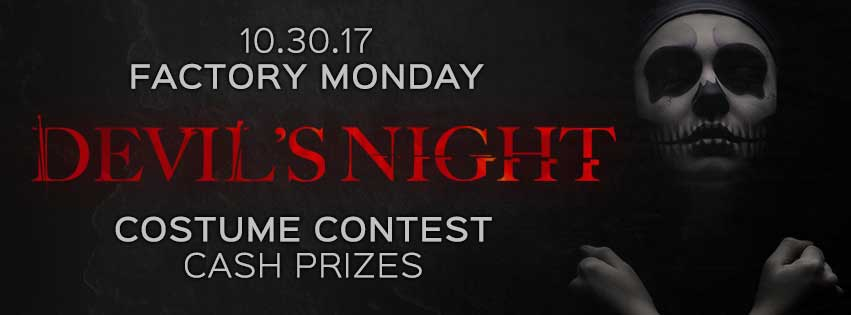
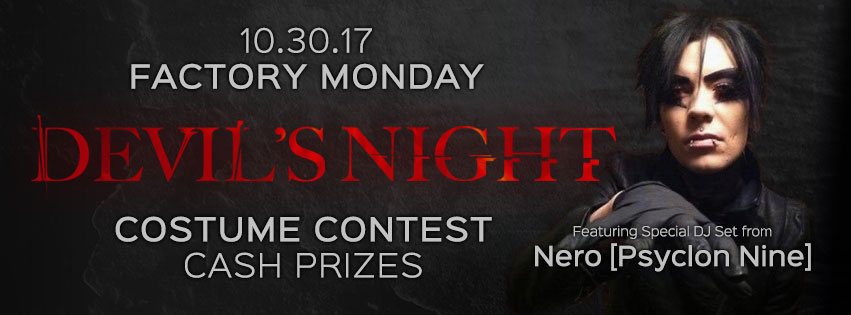
eventupadte

diff --git a/js/events.js b/js/events.js
@@ -108,8 +108,8 @@ var eventsJSON = [
         "eventDate"    : new Date("Oct 30, 2017 21:00:00"),
         "eventName"    : "Factory Halloween 2017: Devil’s Night",
         "eventArtist"  : "Factory Halloween 2017",
-        "eventDesc"    : "OUR holiday is here. And this year, we party on on DEVIL’S NIGHT. Costume contest with cash prizes at midnight. DJ Void6, guest Misanthropia Narcissus, and Remnant on video upstairs, with DJ KnowLedge and guest DJ Selina Style down in the Red Room. Please note: no metal or hard plastic, toys, or faux weapons are permitted.<br><br>Make sure to checkout our other <a href='halloween-events-michigan-2017.html'>Halloween 2017 Events!</a>",
-        "eventDescLong": "OUR holiday is here. And this year, we party on on DEVIL’S NIGHT. Costume contest with cash prizes at midnight. DJ Void6, guest Misanthropia Narcissus, and Remnant on video upstairs, with DJ KnowLedge and guest DJ Selina Style down in the Red Room. Please note: no metal or hard plastic, toys, or faux weapons are permitted.<br><br>Make sure to checkout our other <a href='halloween-events-michigan-2017.html'>Halloween 2017 Events!</a>",
+        "eventDesc"    : "JUST ADDED: Nero from Psyclon Nine will be performing a special DJ set!<br><br>OUR holiday is here. And this year, we party on on DEVIL’S NIGHT. Costume contest with cash prizes at midnight. DJ Void6, guest Misanthropia Narcissus, and Remnant on video upstairs, with DJ KnowLedge and guest DJ Selina Style down in the Red Room. Please note: no metal or hard plastic, toys, or faux weapons are permitted.<br><br>Make sure to checkout our other <a href='halloween-events-michigan-2017.html'>Halloween 2017 Events!</a>",
+        "eventDescLong": "JUST ADDED: Nero from Psyclon Nine will be performing a special DJ set!<br><br>OUR holiday is here. And this year, we party on on DEVIL’S NIGHT. Costume contest with cash prizes at midnight. DJ Void6, guest Misanthropia Narcissus, and Remnant on video upstairs, with DJ KnowLedge and guest DJ Selina Style down in the Red Room. Please note: no metal or hard plastic, toys, or faux weapons are permitted.<br><br>Make sure to checkout our other <a href='halloween-events-michigan-2017.html'>Halloween 2017 Events!</a>",
         "eventCover"   : "$5",
         "eventLink"    : "special-events/" + "factory-halloween-2017-at-necto-nightclub-ann-arbor-michigan-oct-30-2017.html",
         "eventSocial"  : "https://facebook.com/events/1493420970749249/",

diff --git a/js/events-min.js b/js/events-min.js
@@ -108,8 +108,8 @@ var eventsJSON = [
  "eventDate" : new Date("Oct 30, 2017 21:00:00"),
  "eventName" : "Factory Halloween 2017: Devil’s Night",
  "eventArtist" : "Factory Halloween 2017",
- "eventDesc" : "OUR holiday is here. And this year, we party on on DEVIL’S NIGHT. Costume contest with cash prizes at midnight. DJ Void6, guest Misanthropia Narcissus, and Remnant on video upstairs, with DJ KnowLedge and guest DJ Selina Style down in the Red Room. Please note: no metal or hard plastic, toys, or faux weapons are permitted.<br><br>Make sure to checkout our other <a href='halloween-events-michigan-2017.html'>Halloween 2017 Events!</a>",
- "eventDescLong": "OUR holiday is here. And this year, we party on on DEVIL’S NIGHT. Costume contest with cash prizes at midnight. DJ Void6, guest Misanthropia Narcissus, and Remnant on video upstairs, with DJ KnowLedge and guest DJ Selina Style down in the Red Room. Please note: no metal or hard plastic, toys, or faux weapons are permitted.<br><br>Make sure to checkout our other <a href='halloween-events-michigan-2017.html'>Halloween 2017 Events!</a>",
+ "eventDesc" : "JUST ADDED: Nero from Psyclon Nine will be performing a special DJ set!<br><br>OUR holiday is here. And this year, we party on on DEVIL’S NIGHT. Costume contest with cash prizes at midnight. DJ Void6, guest Misanthropia Narcissus, and Remnant on video upstairs, with DJ KnowLedge and guest DJ Selina Style down in the Red Room. Please note: no metal or hard plastic, toys, or faux weapons are permitted.<br><br>Make sure to checkout our other <a href='halloween-events-michigan-2017.html'>Halloween 2017 Events!</a>",
+ "eventDescLong": "JUST ADDED: Nero from Psyclon Nine will be performing a special DJ set!<br><br>OUR holiday is here. And this year, we party on on DEVIL’S NIGHT. Costume contest with cash prizes at midnight. DJ Void6, guest Misanthropia Narcissus, and Remnant on video upstairs, with DJ KnowLedge and guest DJ Selina Style down in the Red Room. Please note: no metal or hard plastic, toys, or faux weapons are permitted.<br><br>Make sure to checkout our other <a href='halloween-events-michigan-2017.html'>Halloween 2017 Events!</a>",
  "eventCover" : "$5",
  "eventLink" : "special-events/" + "factory-halloween-2017-at-necto-nightclub-ann-arbor-michigan-oct-30-2017.html",
  "eventSocial" : "https://facebook.com/events/1493420970749249/",
